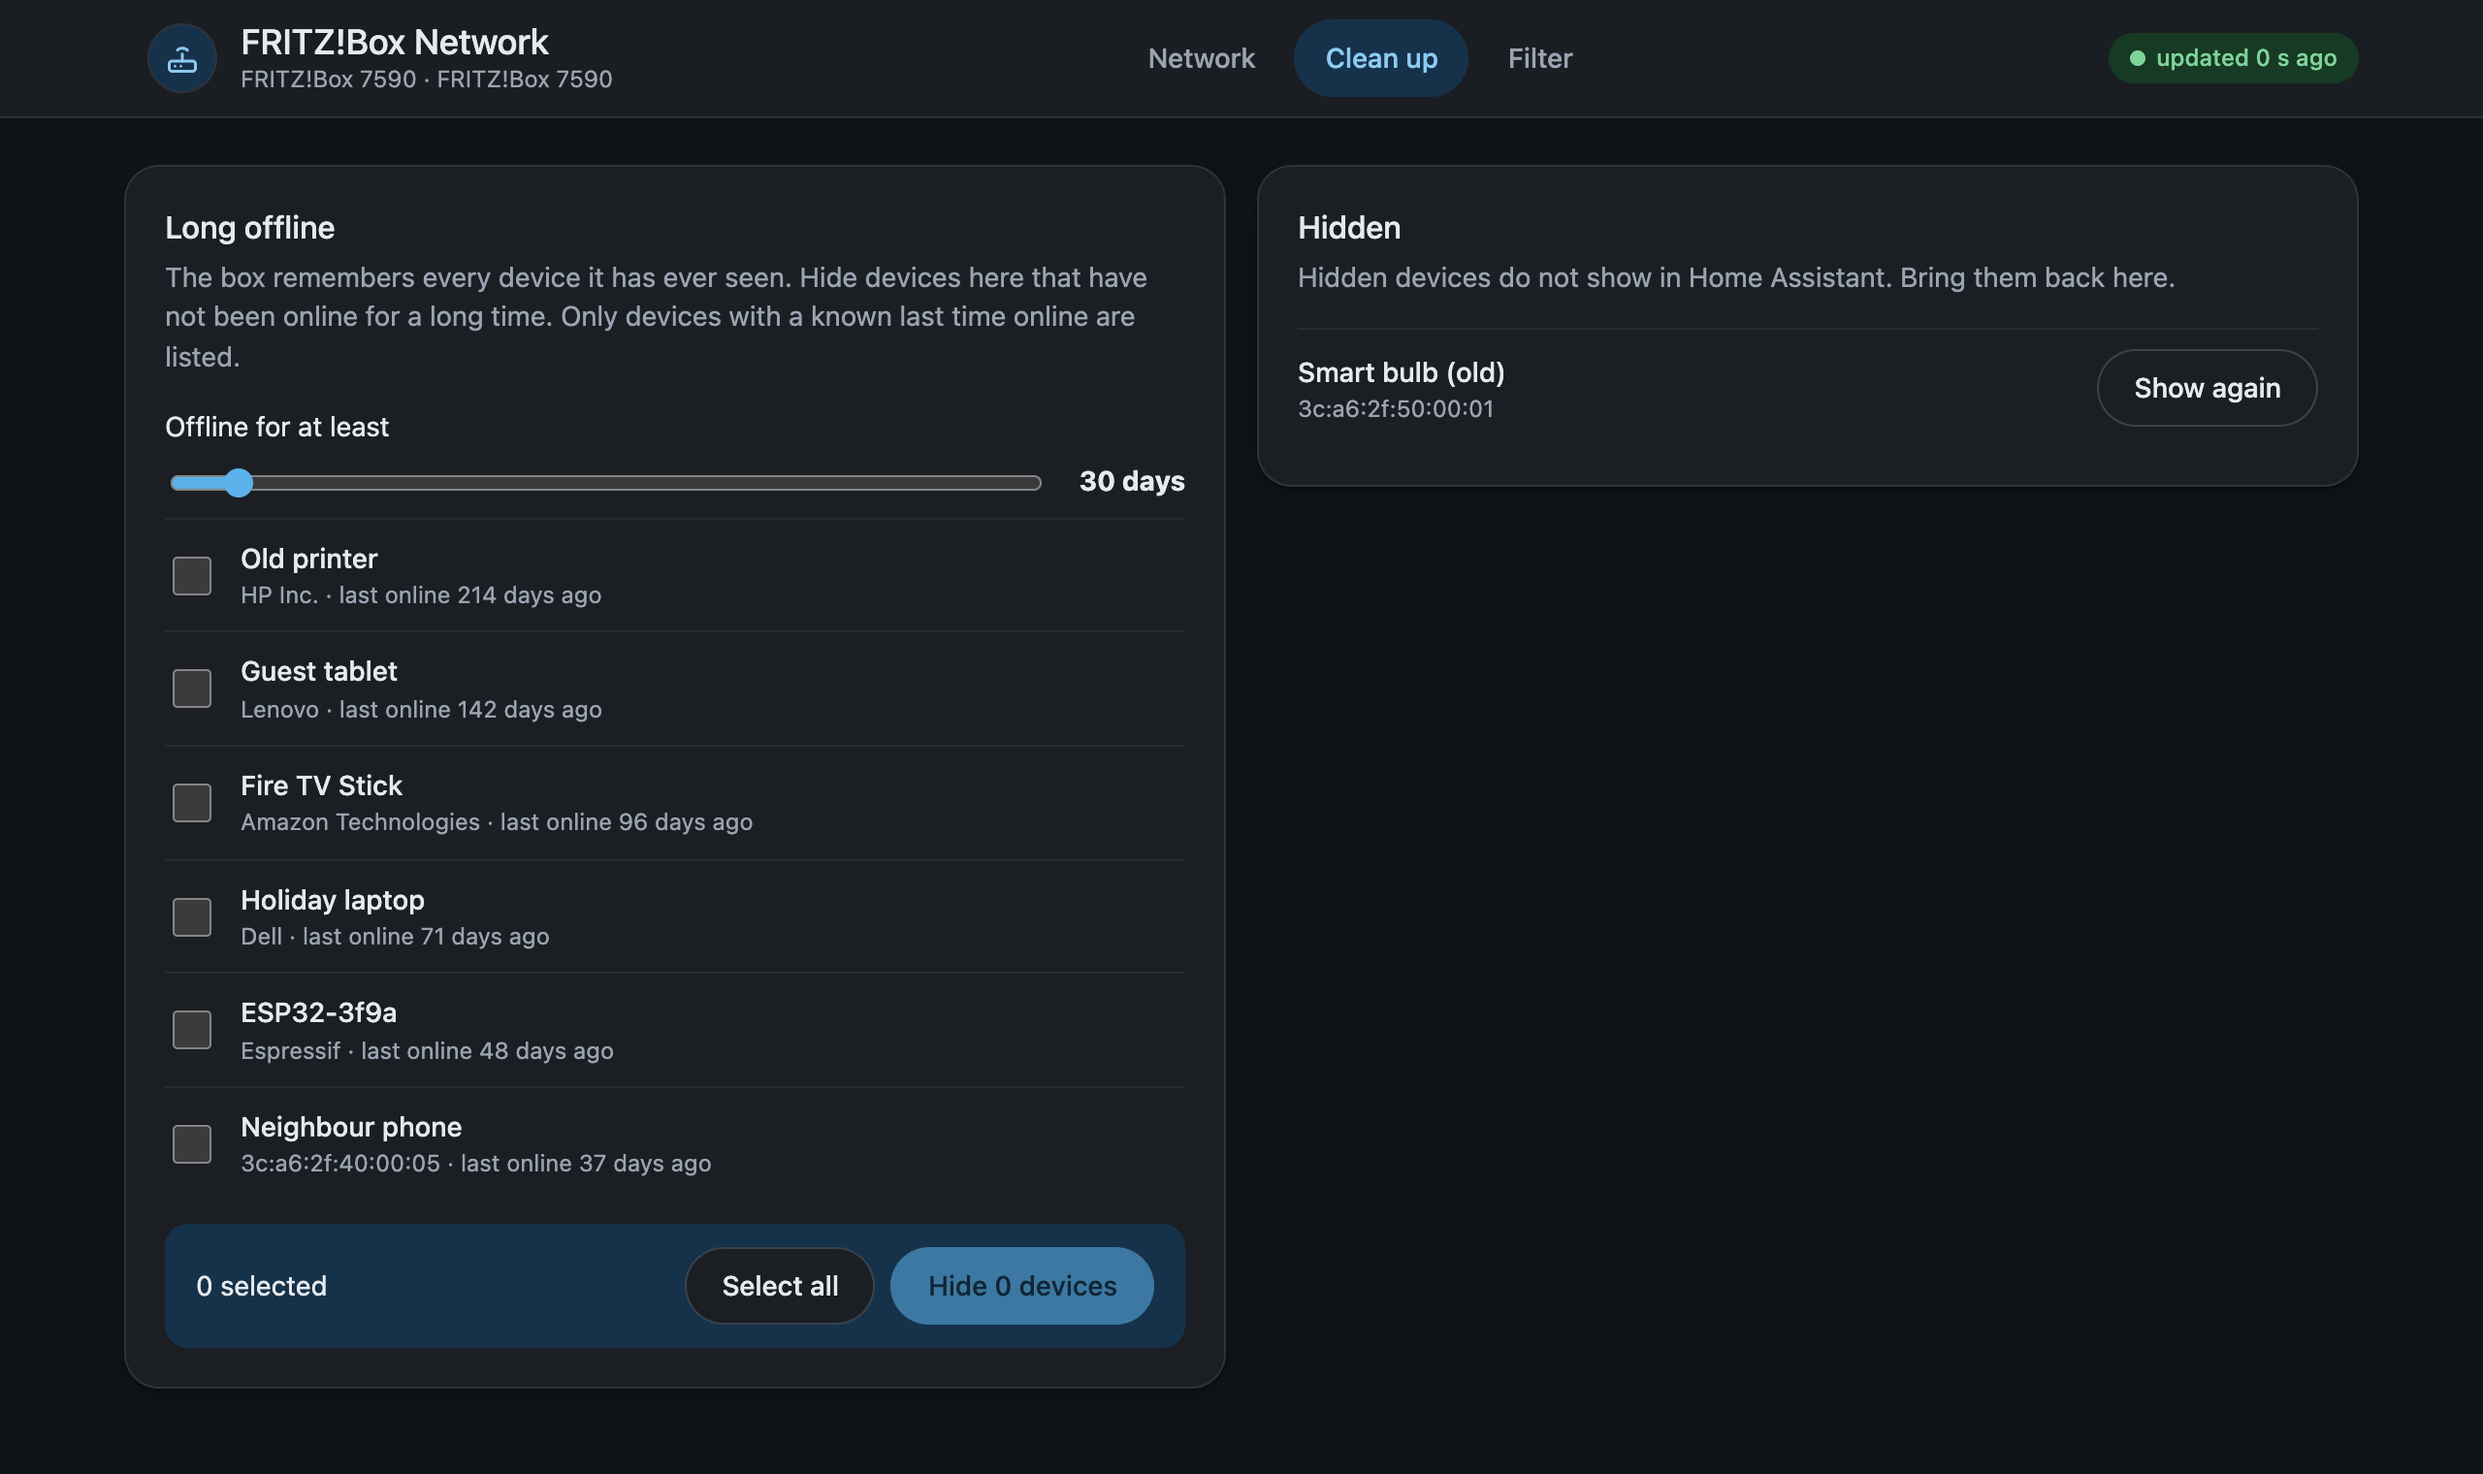
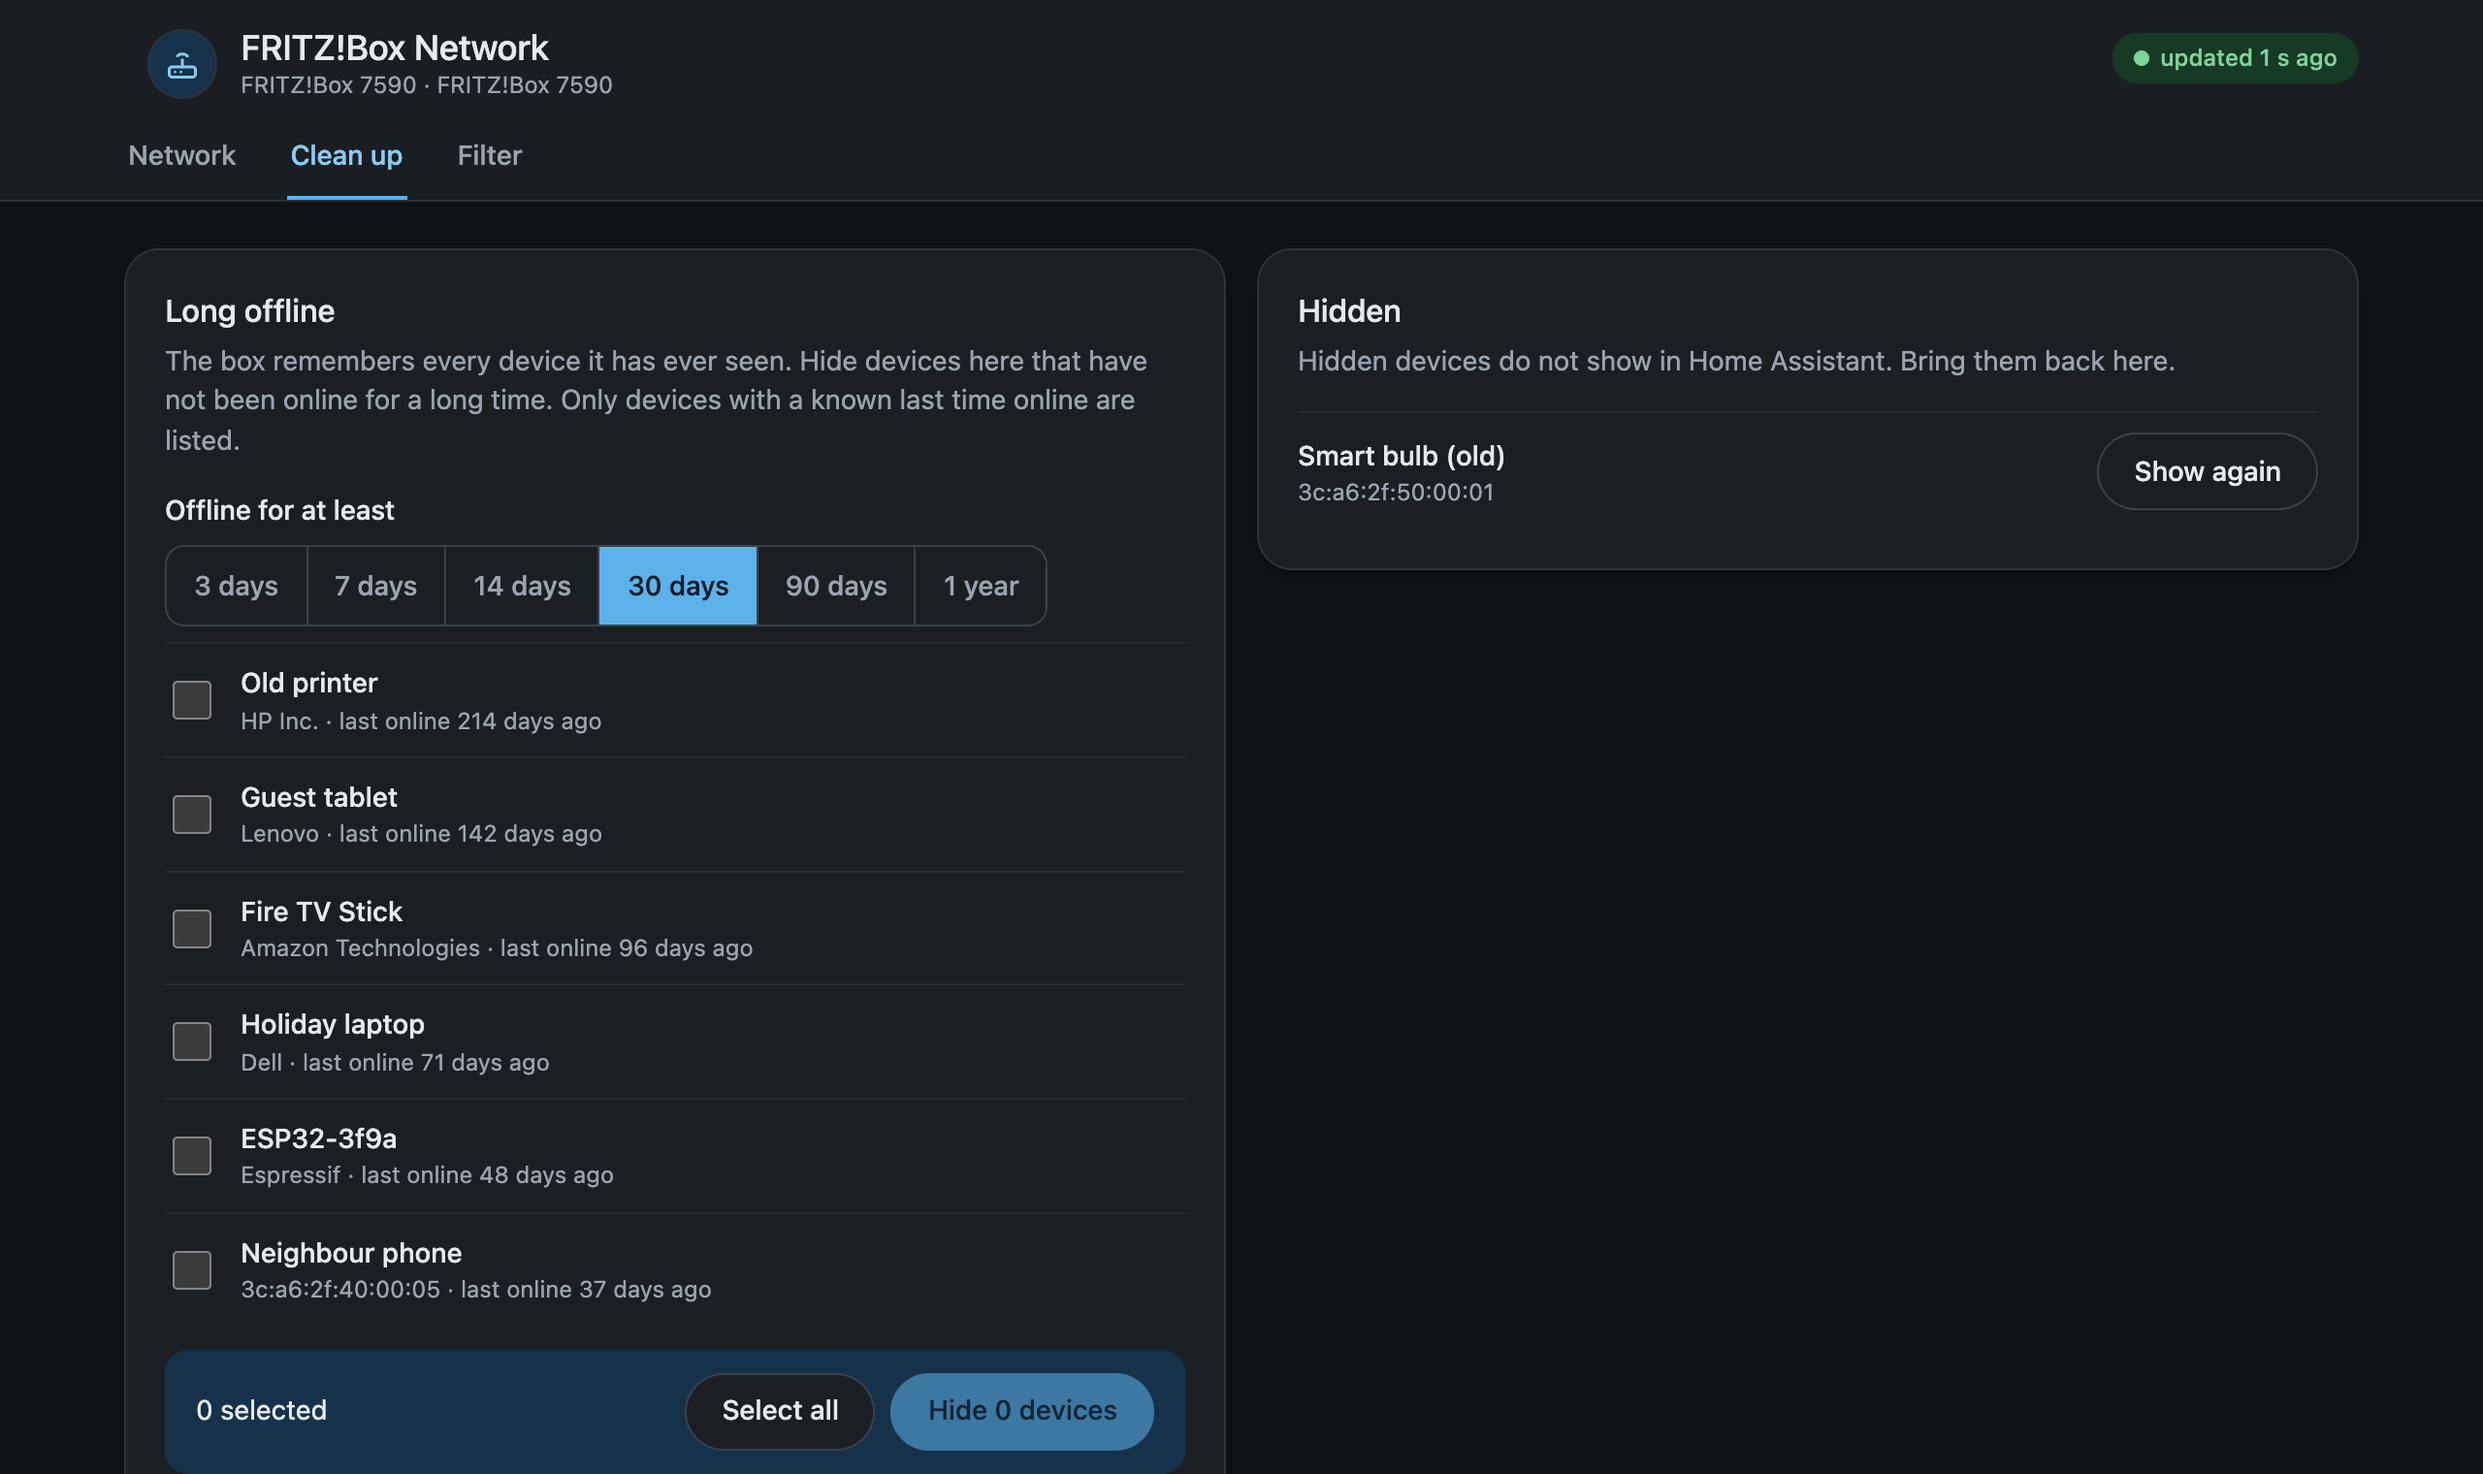
docs: changelog, user guide and screenshots for the table, the history and the clean-up steps

diff --git a/docs/USER-GUIDE.de.md b/docs/USER-GUIDE.de.md
@@ -278,7 +278,7 @@ Eine Aktion ist aus und nennt den Grund, wenn dem Box-Benutzer das Recht „FRIT
 
 **Verlauf.** Die Geräteseite führt mit zwei Knöpfen ins Logbuch und in den Verlauf von Home Assistant für das Gerät. Dort stehen Roaming und Online-Zeiten. Das Panel führt keinen eigenen Verlauf: Signal und Rate haben nur dann einen, wenn du ihre Sensoren in den Geräteeinstellungen aktivierst (sie sind standardmäßig aus).
 
-**Aufräumen.** Die Box merkt sich jedes Gerät, das sie je gesehen hat. Hier stehen die Offline-Geräte, deren letzte Online-Zeit bekannt ist, mit einem Regler für die Tage (vorbelegt mit der Option „Tage offline, bis ein Gerät als weg gilt“, 7 bis 365). Wähle Geräte aus oder alle und tippe auf „N Geräte ausblenden“: Ein Dialog nennt die Namen und die Folgen, erst dann werden sie ausgeblendet und mit ihren Entitäten aus Home Assistant entfernt. Online-Geräte, die Box und Repeater lehnt der Server ab, auch wenn das Panel sie anbieten würde. Darunter steht die Liste **Ausgeblendet** mit „Einblenden“; das lädt die Integration neu. Das ist dieselbe Liste wie die ausgeblendeten Geräte in den Optionen und die Reparatur für lange offline Geräte.
+**Aufräumen.** Die Box merkt sich jedes Gerät, das sie je gesehen hat. Hier stehen die Offline-Geräte, deren letzte Online-Zeit bekannt ist, mit Knöpfen für die Tage (3, 7, 14, 30, 90 Tage, 1 Jahr; vorbelegt mit der nächsten Stufe zur Option „Tage offline, bis ein Gerät als weg gilt“). Wähle Geräte aus oder alle und tippe auf „N Geräte ausblenden“: Ein Dialog nennt die Namen und die Folgen, erst dann werden sie ausgeblendet und mit ihren Entitäten aus Home Assistant entfernt. Online-Geräte, die Box und Repeater lehnt der Server ab, auch wenn das Panel sie anbieten würde. Darunter steht die Liste **Ausgeblendet** mit „Einblenden“; das lädt die Integration neu. Das ist dieselbe Liste wie die ausgeblendeten Geräte in den Optionen und die Reparatur für lange offline Geräte.
 
 **Filter.** Der Gerätefilter der Optionen (Alle Geräte, Nur ausgewählte, Alle außer ausgewählten, Gastnetz und private MAC-Adressen ignorieren) mit einer **Vorschau**: Sie zeigt, welche Geräte bleiben, dazukommen oder **samt Entitäten entfernt werden**, bevor etwas geschrieben wird. „Filter anwenden“ fragt mit den Namen der Geräte nach, die verschwinden. Das Panel schickt dabei die Liste mit, die du gesehen hast: Hat sich die Liste inzwischen geändert (ein Gerät ging online, die Box listet ein anderes), schreibt der Server nichts und du siehst die neue Vorschau. Entfernte Geräte verlieren ihre eigenen Namen, ihre Entitäts-IDs und ihren Verlauf; Bezüge in Automationen zeigen danach ins Leere. „Für Offline-Geräte keine Geräte anlegen“ gibt es weiter nur in den Optionen.
 

diff --git a/CHANGELOG.md b/CHANGELOG.md
@@ -6,12 +6,16 @@ Alle nennenswerten Änderungen an dieser Integration werden hier festgehalten.
 
 ### Neu
 
+- Seitenpanel: Die Liste ist standardmäßig **flach** und eine sortierbare Tabelle (Klick auf die Spaltenköpfe) mit Verbindung, Rate, Signal, Sparkline der letzten 24 Stunden und „Zuletzt online“, mit Seiten (50 Zeilen, wählbar 25/50/100/alle, das Panel merkt sich die Wahl). Die Gruppierung nach Access Point, Band und Gruppe bleibt wählbar.
+- Die Integration speichert pro Gerät Online-Zeiten, Signal und Rate (einen Tag im Fünf-Minuten-Takt, eine Woche stündlich) im `.storage` von Home Assistant, damit die Sparklines einen Neustart überstehen. Neue Websocket-Befehle `history/summary` und `history/device`.
+- Seitenpanel, Geräteseite: Verlauf von Signal und Rate über 24 Stunden oder 7 Tage mit niedrigstem, mittlerem und höchstem Wert.
 - Seitenpanel: Netzkarte als zweite Ansicht neben der Liste (Umschalter **Liste | Netzkarte**, das Panel merkt sich die Wahl). Die FRITZ!Box und jeder Repeater sind eigene Flächen, die Geräte hängen als Knöpfe mit Initialen an Leitungen für LAN und die WLAN-Bänder. Die Linie zum Repeater zeigt, ob er per LAN oder WLAN angebunden ist. Gefilterte Geräte fehlen in der Karte, mit dem Hinweis „N durch den Filter ausgeblendet“.
 - Die Topologie liefert pro Repeater additiv `uplink` mit Art, Band und Signal der Anbindung aus der Mesh-Topologie.
 - Eine Aktion, deren Entität in Home Assistant ausgeschaltet ist, zeigt den bekannten Wert (Zugangsprofil, Priorisierung) und den Knopf **Einschalten**, bei zwei oder mehr auch **Alle einschalten**. Danach lädt Home Assistant die Integration kurz neu.
 
 ### Geändert
 
+- Seitenpanel: Die Seiten stehen als unterstrichene Tabs links unter dem Titel. Die Linien im Verbindungsweg liegen auf einer Höhe, die Beschriftung hängt darunter. „Aufräumen“ nimmt feste Stufen (3, 7, 14, 30, 90 Tage, 1 Jahr) als Knöpfe statt des Schiebers. Die Gruppe „Ohne Access Point“ heißt „Nicht zugeordnet“.
 - Seitenpanel: Das Gerät öffnet sich als eigene Seite statt in einer Spalte rechts. Zurück führt in die Liste oder Karte mit Filter, Scrollposition und Fokus; mit ‹ › oder `j`/`k` blätterst du durch die angezeigten Geräte. Neu oben auf der Seite ist der Verbindungsweg (Internet, FRITZ!Box, Repeater, Gerät), ab 900 px stehen Aktionen und Stammdaten nebeneinander.
 - Seitenpanel: Statt einer langen Reihe von Filtern gibt es drei feste (Alle, Online, Offline) und das Menü „Mehr“ mit den übrigen Filtern und den Gruppen, auf dem Handy als Blatt von unten. Die Reihe und die Funkbänder brechen um statt waagerecht zu scrollen.
 

diff --git a/docs/USER-GUIDE.md b/docs/USER-GUIDE.md
@@ -278,7 +278,7 @@ An action is off and says why when the box user lacks the "FRITZ!Box settings" r
 
 **History.** The device page has two buttons that lead to the logbook and the history of Home Assistant for the device. Roaming and the times online are there. The panel keeps no history of its own: signal and rate only have one if you enable their sensors in the device settings (they are off by default).
 
-**Clean up.** The box remembers every device it has ever seen. Here are the offline devices whose last time online is known, with a slider for the days (preset with the option "Days offline until a device counts as gone", 7 to 365). Pick devices or all of them and tap "Hide N devices": a dialog names the devices and the consequences, and only then are they hidden and removed from Home Assistant with their entities. The server refuses online devices, the box and repeaters, even if the panel offered them. Below is the **Hidden** list with "Show again", which reloads the integration. It is the same list as the hidden devices in the options and the repair for long-offline devices.
+**Clean up.** The box remembers every device it has ever seen. Here are the offline devices whose last time online is known, with buttons for the days (3, 7, 14, 30, 90 days, 1 year) (preset to the step nearest to the option "Days offline until a device counts as gone"). Pick devices or all of them and tap "Hide N devices": a dialog names the devices and the consequences, and only then are they hidden and removed from Home Assistant with their entities. The server refuses online devices, the box and repeaters, even if the panel offered them. Below is the **Hidden** list with "Show again", which reloads the integration. It is the same list as the hidden devices in the options and the repair for long-offline devices.
 
 **Filter.** The device filter of the options (all devices, only selected, all except selected, ignore guest network and private MAC addresses) with a **preview**: it shows which devices stay, come back or are **removed with their entities** before anything is written. "Apply filter" asks again with the names of the devices that disappear. The panel sends the list you saw: if it changed meanwhile (a device went online, the box lists another one), the server writes nothing and you see the new preview. Removed devices lose their own names, their entity ids and their history; references in automations then point nowhere. "Do not create devices for offline devices" stays in the options only.
 

diff --git a/CHANGELOG.en.md b/CHANGELOG.en.md
@@ -6,12 +6,16 @@ All notable changes to this integration are recorded here.
 
 ### New
 
+- Side panel: the list is **flat** by default and a sortable table (click the column heads) with connection, rate, signal, a sparkline of the last 24 hours and "Last online", with pages (50 rows, choose 25/50/100/all, the panel remembers the choice). Grouping by access point, band and group stays available.
+- The integration keeps online times, signal and rate per device (a day in steps of five minutes, a week in hours) in the `.storage` of Home Assistant, so the sparklines survive a restart. New websocket commands `history/summary` and `history/device`.
+- Side panel, device page: history of signal and rate over 24 hours or 7 days with the lowest, mean and highest value.
 - Side panel: a network map as a second view next to the list (switch **List | Network map**, the panel remembers the choice). The FRITZ!Box and every repeater are areas of their own, the devices hang as buttons with initials on lines for LAN and the Wi-Fi bands. The line to a repeater shows whether it is linked by cable or Wi-Fi. Filtered devices are left out of the map, with the note "N hidden by the filter".
 - The topology adds `uplink` per repeater: type, band and signal of its link, from the mesh topology.
 - An action whose entity is switched off in Home Assistant shows the known value (access profile, priority) and an **Enable** button, with two or more also **Enable all**. Home Assistant then reloads the integration briefly.
 
 ### Changed
 
+- Side panel: the pages are underlined tabs at the left under the title. The lines of the connection path sit at the same height, with the label below. "Clean up" takes fixed steps (3, 7, 14, 30, 90 days, 1 year) as buttons instead of the slider. The group "No access point" is now "Not assigned".
 - Side panel: a device opens as a page of its own instead of a column on the right. Back leads to the list or the map with filter, scroll position and focus; ‹ › or `j`/`k` page through the devices shown. New at the top of the page is the connection path (internet, FRITZ!Box, repeater, device); from 900 px the actions and the master data stand side by side.
 - Side panel: instead of a long row of filters there are three fixed ones (All, Online, Offline) and the "More" menu with the other filters and the groups, on a phone as a sheet from the bottom. The row and the radio boxes wrap instead of scrolling sideways.
 
